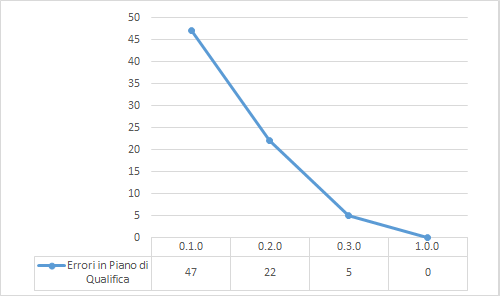
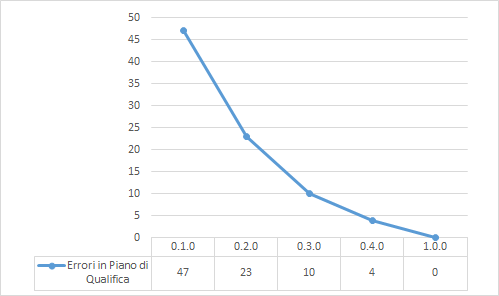
docs: modifica registro delle modifiche, modifica sezione 6

diff --git a/esterni/piano-di-qualifica/components/6-attivita-di-verifica.tex b/esterni/piano-di-qualifica/components/6-attivita-di-verifica.tex
@@ -54,6 +54,7 @@ Pur essendo le \textsc{Norme di Progetto} un documento abbastanza corposo e ricc
 \paragraph{Studio di Fattibilità}
 \label{sub:studio_di_fattibilita}
 Essendo lo \textsc{Studio di Fattibilità} uno dei primi documenti redatti dal gruppo, il numero di errori è risultato alto rispetto al contenuto soprattutto per errori di dimenticanza nel rispettare quanto scritto nelle \textsc{Norme di Progetto}.
+In questo documento sono state fatte 2 sole fasi di verifica in quanto il documento aveva contenuti più ristretti rispetto agli altri documenti e dopo la seconda verifica non vi sono stati aggiunti ulteriori contenuti.
 
 \rowcolors{2}{white!80!lightgray!90}{white}
 \renewcommand{\arraystretch}{2} % allarga le righe con dello spazio sotto e sopra
@@ -79,6 +80,7 @@ Essendo lo \textsc{Studio di Fattibilità} uno dei primi documenti redatti dal g
 \paragraph{Piano di Qualifica}
 \label{sub:piano_di_qualifica}
 Il \textsc{Piano di Qualifica} inizialmente presentava molti errori che però sono scesi drasticamente ad ogni fase di verifica effettuata sul documento.
+Essendo un documento ricco di sezioni e contenuti si è reso necessario effettuare 4 fasi di verifica per il documento.
 L'indice di Gulpease rientra nel range definito tra 55 e 65.
 
 \rowcolors{2}{white!80!lightgray!90}{white}
@@ -151,6 +153,31 @@ Come per le \textsc{Norme di Progetto} essendo anche l'\textsc{Analisi dei Requi
         \label{fig:scice_documenti}
         \caption{Grafico errori per \textsc{Analisi dei Requisiti}}
     \end{figure}
+
+\paragraph{Glossario}
+\label{sub:glossario}
+Essendo il \textsc{Glossario} un documento abbastanza semplice e con lo scopo di informare il lettore sul significato di termini particolari, si è deciso di effettuare una sola fase di verifica finale.     
+
+\rowcolors{2}{white!80!lightgray!90}{white}
+\renewcommand{\arraystretch}{2} % allarga le righe con dello spazio sotto e sopra
+\begin{longtable}[H]{>{\centering\bfseries}m{6cm} >{\centering}m{2cm} >{\centering}m{2.5cm} >{\centering}m{2.5cm} >{\centering\arraybackslash}m{2.5cm}}  
+  \rowcolor{lightgray}
+  {\textbf{Documento}} & {\textbf{Risultato indice}} & {\textbf{Errori presenti}} & {\textbf{Esito indice}} & {\textbf{Esito errori}}  \\
+  \endfirsthead%
+  \rowcolor{lightgray}
+  {\textbf{Documento}} & {\textbf{Risultato indice}} & {\textbf{Errori presenti}} & {\textbf{Esito indice}} & {\textbf{Esito errori}}  \\
+  \endhead%
+  \textbf{Glossario v1.0.0} &                  & 0               & Non soddisfatto & Soddisfatto \\
+  \caption{Risultati metriche per il Glossario}
+  \label{tab:my-table}
+\end{longtable}
+
+\begin{figure}[H]
+  \centering
+  \includegraphics[width=10cm]{img/erroriGlossario.png}
+  \label{fig:scice_documenti}
+  \caption{Grafico errori per \textsc{Glossario}}
+\end{figure}
 
 \subsubsection{Esiti verifiche sui processi}
 \label{sub:esiti_verifiche_sui_processi}
@@ -251,7 +278,7 @@ Come per i documenti, anche per queste metriche verrà fornito un esito che può
   \caption{Risultati metrica MoPR011}
   \label{tab:my-table}
 \end{longtable}
-\textbf{Nota}: ogni documento è stato verificato almeno 3 volte, riuscendo a soddisfare l'obiettivo prefissato.
+\textbf{Nota}: tutti i documenti più corposi e discorsivi sono stati verificati almeno 3 volte, mentre per i documenti più esili di contenuti sono bastate 1 o 2 fasi di verifica. Nonostante tutto il team ritiene l'obiettivo comunque soddisfatto soprattutto per il fatto che non sono stati rilasciati documenti con errori.
 
 \subsection{Conclusioni}%
 \label{sub:conclusioni}

diff --git a/esterni/piano-di-qualifica/piano-di-qualifica.tex b/esterni/piano-di-qualifica/piano-di-qualifica.tex
@@ -19,7 +19,21 @@
 
 \setDescrizione{Documento finalizzato a descrivere gli obiettivi che \emph{CoffeeCode} prefigge di raggiungere per ottenere processi e prodotti di \glossario{QUALITÀ}.}
 
-\setModifiche{}
+\setModifiche{
+    1.0.0 & Alessandro Franchin & Responsabile & 2020-04-08 & Approvazione \\
+    0.4.0 & Sofia Bononi & Verificatore & 2020-04-04 & Verifica finale \\
+    0.3.0 & Ian Nicolas Di Menna & Verificatore & 2020-04-02 & Verifica sezioni 6,7 \\
+    0.2.2 & Enrico Galdeman & Verificatore & 2020-03-29 & Inserita sezione 7 \\
+    0.2.1 & Enrico Galdeman & Verificatore & 2020-03-26 & Inserita sezione 6 \\
+    0.2.0 & Enrico Galdeman & Verificatore & 2020-03-24 & Verifica sezioni 4,5 \\
+    0.1.2 & Nicholas Miazzo & Verificatore & 2020-03-21 & Inserita sezione 5 \\
+    0.1.1 & Nicholas Miazzo & Verificatore & 2020-03-18 & Inserita sezione 4 \\
+    0.1.0 & Nicholas Miazzo & Verificatore & 2020-03-17 & Verifica sezioni 1,2,3 \\
+    0.0.4 & Marco Nardelotto & Verificatore & 2020-03-15 & Inserita sezione 3 \\
+    0.0.3 & Marco Nardelotto & Verificatore & 2020-03-14 & Inserita sezione 2 \\
+    0.0.2 & Marco Nardelotto & Verificatore & 2020-03-12 & Inserita sezione 1 \\
+    0.0.1 & Alessandro Franchin & Responsabile & 2020-03-12 & Creazione template
+}
 
 \begin{document}
 \input{../../commons/template}
